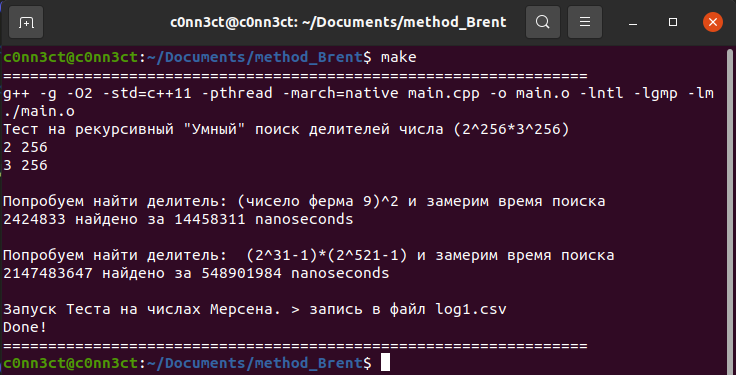
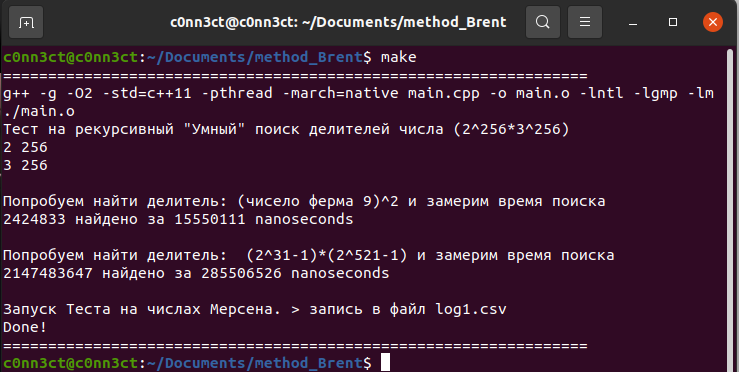
New img

diff --git a/README.md b/README.md
@@ -15,8 +15,15 @@
 	3 столбец: время метода Брента_1 с goto 
 	4 столбец: время метода Брента_2 без goto 
 
+
+Результат замера Метода Полларда:
+![test_1](img/f_3.png)
+
+
+
 Пример выполнения:
 ![test_1](img/f_1.png)
+
 ![test_2](img/f_2.png)
 
 
